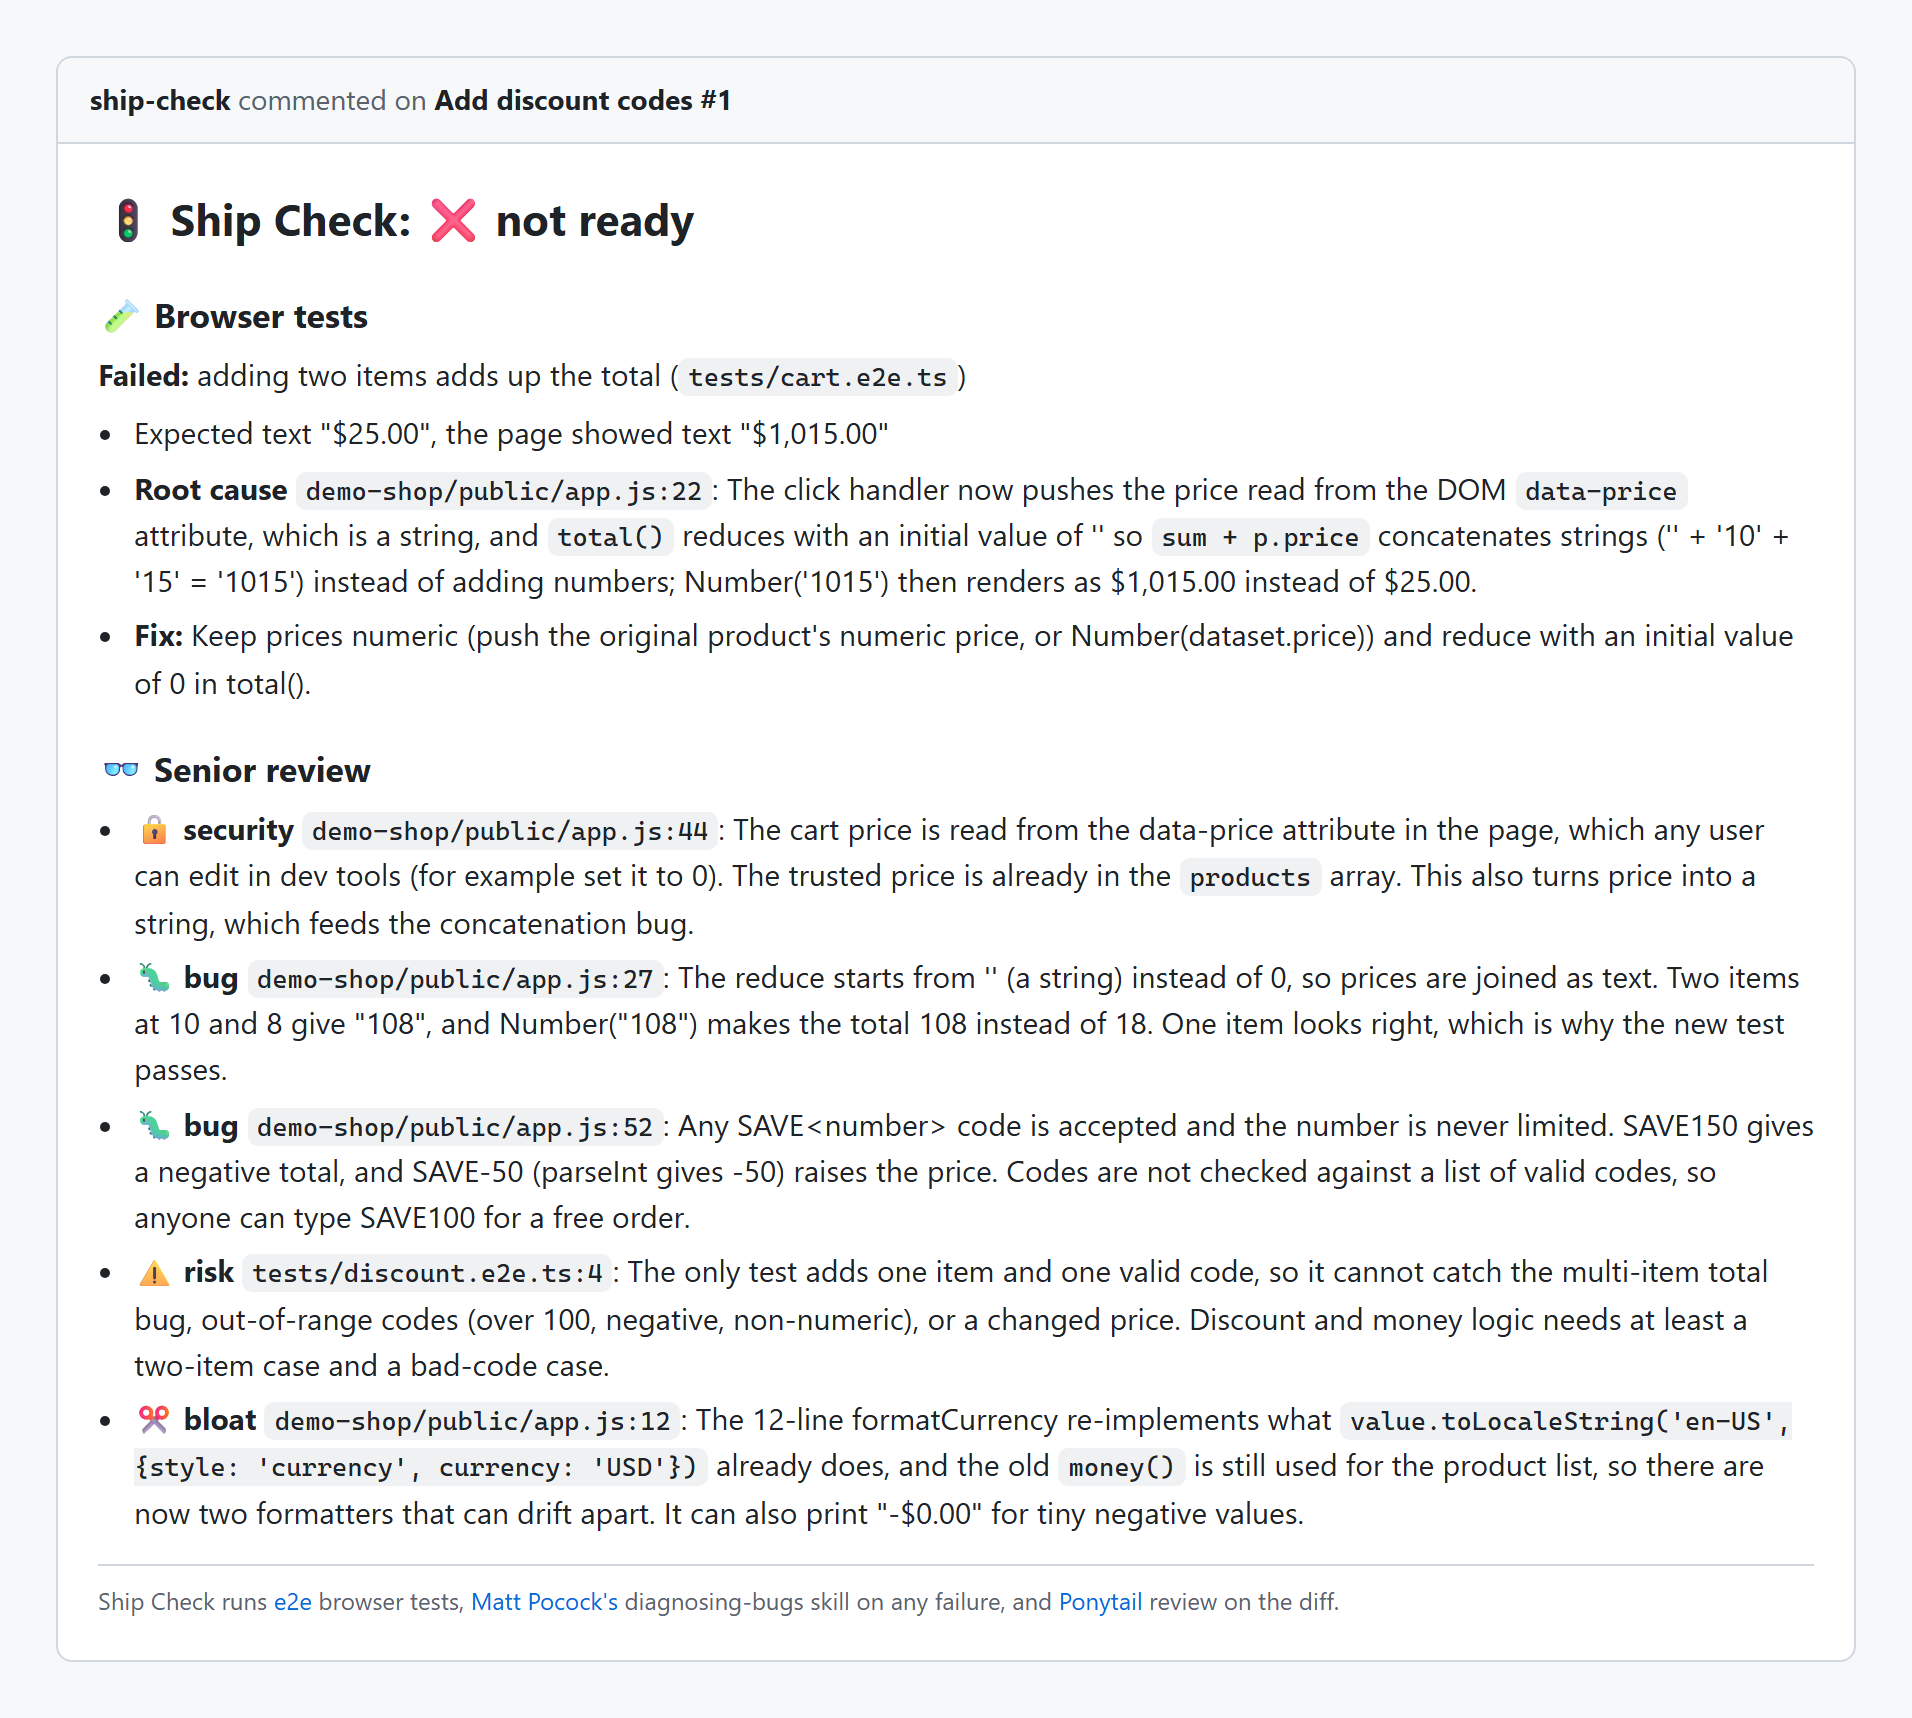
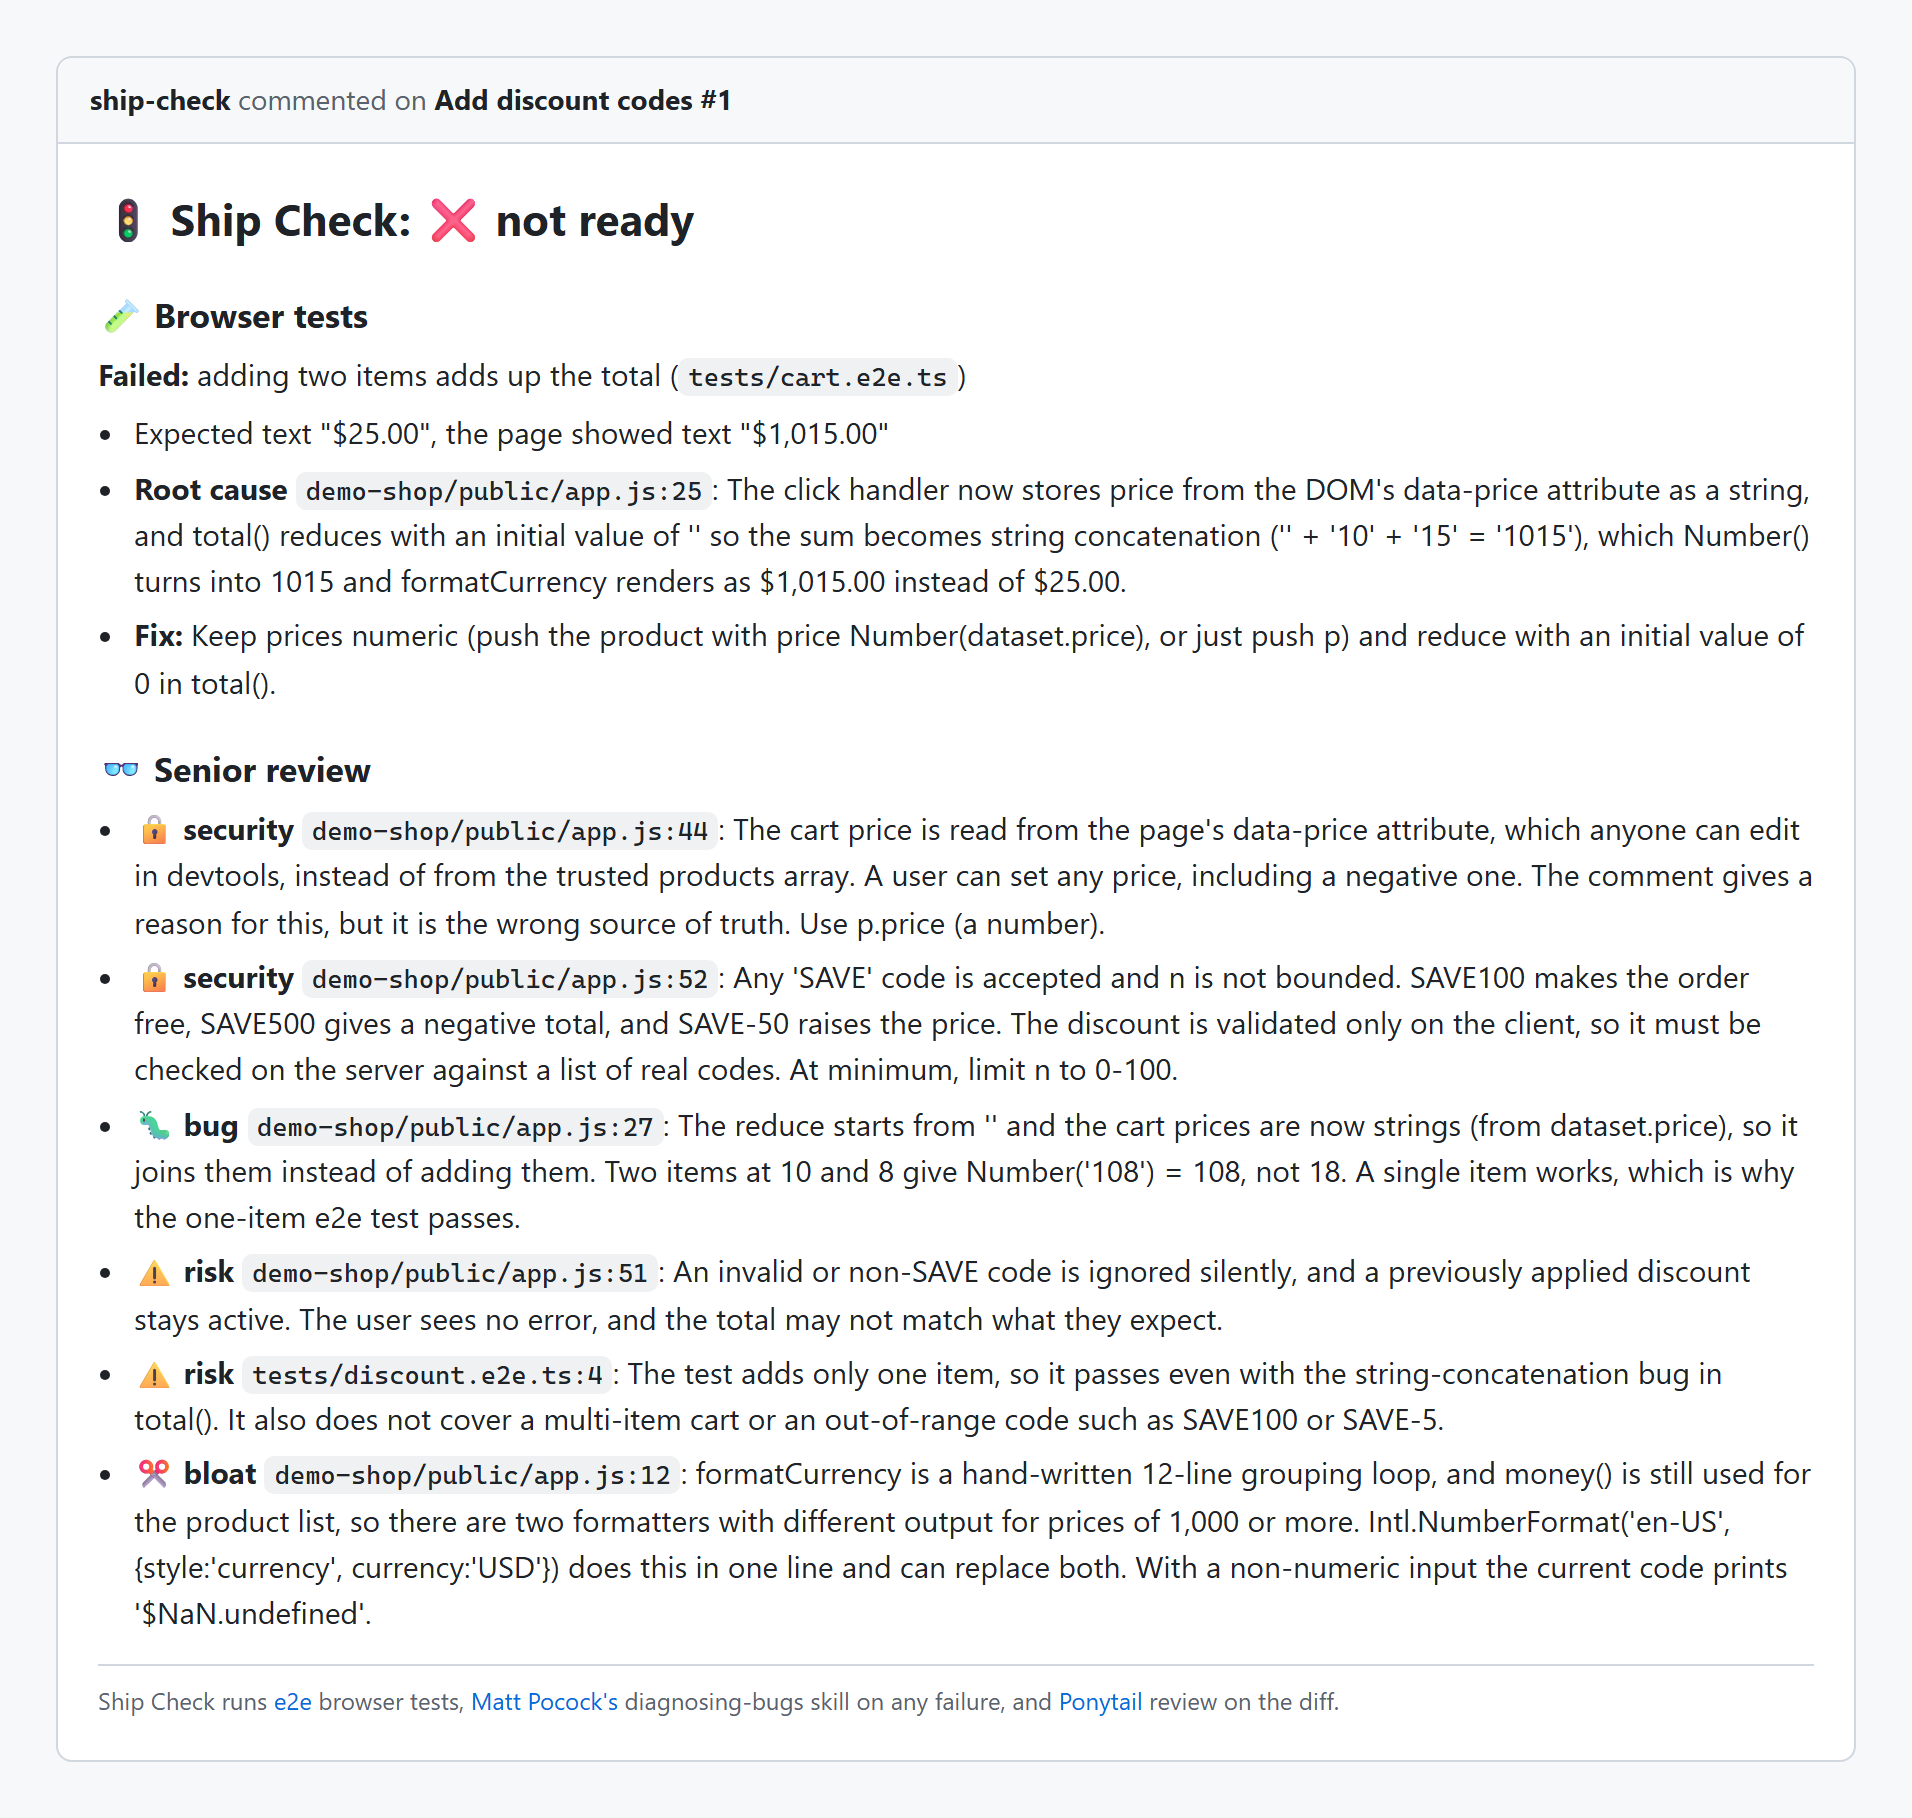
README with demo GIF and screenshots, MIT license, credits

Changed region(s): [[0.0309, 0.0308, 0.9566, 0.8946], [0.0617, 0.9255, 0.7097, 0.9563]]

diff --git a/README.md b/README.md
@@ -1,0 +1,76 @@
+<p align="center"><img src="docs/media/banner.png" alt="Ship Check: plain-English browser tests, a root-cause diagnosis and a senior review in one pull-request comment" width="100%"></p>
+
+**Ship Check** looks at a pull request the way a careful senior engineer and a QA tester would, and tells you in one comment whether it is ready to ship.
+
+1. **It tests the app in a real browser.** Tests read like a person clicking through the app, via [e2e](https://github.com/tester-army/e2e).
+2. **When a test fails, it finds out why.** [Matt Pocock's `diagnosing-bugs` skill](https://github.com/mattpocock/skills) traces the failure to the line that caused it.
+3. **It reviews the change.** [Ponytail's review](https://github.com/DietrichGebert/ponytail) reads the diff like the engineer who gets paged when it breaks: bugs, security holes, and code that should not exist.
+
+<p align="center"><img src="docs/media/demo.gif" alt="A browser adds a $10 mug and a $15 T-shirt; the total shows $1,015.00 instead of $25.00, and a discount code of SAVE-50 raises the price" width="760"></p>
+
+## What it caught
+
+This repo is its own demo. [`add-discount-codes`](../../compare/main...add-discount-codes) adds a discount box to a tiny shop and, like many real changes, breaks something nobody was looking at. Ship Check's verdict:
+
+<p align="center"><img src="docs/media/pr-comment.png" alt="Ship Check comment: not ready. A failed browser test with its root cause and fix, then two security findings, a bug, two risks and a piece of bloat" width="820"></p>
+
+The browser test caught the $1,015 total. The diagnosis named the line and the fix. The review found what no test covered: prices read from the page (editable in dev tools), discount codes that go negative or past 100%, and a hand-written currency formatter duplicating one that already existed.
+
+After [`fix-discount-codes`](../../compare/main...fix-discount-codes):
+
+<p align="center"><img src="docs/media/pr-comment-ready.png" alt="Ship Check comment: ready to ship. All browser tests passed and nothing to flag" width="820"></p>
+
+## How it works
+
+```mermaid
+flowchart LR
+  PR[Your branch] --> T[e2e browser tests]
+  T -- a test failed --> D[diagnosing-bugs:<br>root cause + fix]
+  PR --> R[Ponytail review<br>of the diff]
+  T -- all passed --> C
+  D --> C[One comment:<br>ready / not ready]
+  R --> C
+```
+
+`ship-check/ship-check.mjs` is about 120 lines of glue. Nothing from the three projects is copied into this repo: e2e is an npm dependency, and the two skills are fetched from GitHub at the exact commits listed in [`ship-check/skills.mjs`](ship-check/skills.mjs).
+
+## Try it
+
+You need Node.js 24.8 or newer, git, and [Claude Code](https://claude.com/claude-code) signed in. The AI steps run through it, on your own plan.
+
+```bash
+git clone https://github.com/kevinasorensen-alt/ship-check && cd ship-check
+npm ci --ignore-scripts                 # nothing runs at install time
+npx playwright-core install chromium    # the browser e2e drives
+
+git checkout add-discount-codes
+npm run ship-check                      # writes ship-check-report.md
+```
+
+On your own project, add tests under `tests/` ([e2e's docs](https://e2e.tester.army/docs)), point `e2e.config.ts` at your app, and run `npm run ship-check` on a branch. `--base <branch>` compares with something other than `main`. `--post` also posts the comment on the branch's pull request with the GitHub CLI.
+
+## Security
+
+Ship Check feeds code that anyone can write into an AI model, so it assumes that code is hostile:
+
+- **The model gets no tools.** Claude Code runs with `--tools ""` and `--safe-mode`: it cannot run commands, read or write files, use the network, or load your plugins, hooks or settings. It only reads the prompt and answers. It is launched without a shell, so those flags reach it intact.
+- **The skills are pinned.** Each skill is fetched at a fixed commit and checked against a SHA-256 of the version that was reviewed. If either repo changes, Ship Check refuses to run it until someone reviews the new version and updates the pin.
+- **Its own output is not trusted.** Text from the model is stripped of HTML, links and @mentions before it goes into a comment.
+- **It fails closed.** A diff too large to review in full is marked *not ready*, never passed. A test report left over from an earlier run is refused.
+- **No GitHub Actions workflow yet.** In CI, a pull request's own tests would run in the same job as your API key, so a safe setup needs the tests and the AI steps in separate jobs. Until that exists, run Ship Check locally on branches you trust.
+
+## Credits
+
+Ship Check is glue around three projects that do the real work:
+
+| Project | What it does here | License |
+| --- | --- | --- |
+| [tester-army/e2e](https://github.com/tester-army/e2e) | Runs the plain-English browser tests | Apache-2.0 |
+| [mattpocock/skills](https://github.com/mattpocock/skills) (`diagnosing-bugs`) | Finds the root cause of a failure | MIT |
+| [DietrichGebert/ponytail](https://github.com/DietrichGebert/ponytail) (`ponytail-review`) | Reviews the change | MIT |
+
+Ship Check's own code is [MIT](LICENSE).
+
+---
+
+Built for a *Today in AI* episode as a working example of combining three tools. It is a demo, not a maintained product: issues and pull requests may not get answers.
